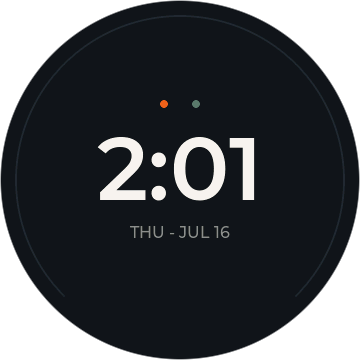
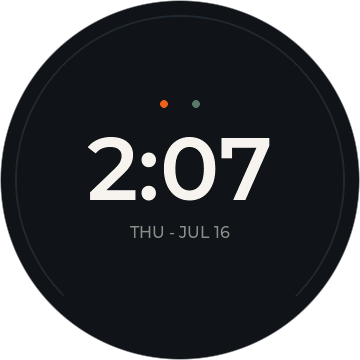
firmware(dial-idf): v1.0.2 — ships the confirm/error overlap fix and OTA hardening
Claude-Session: https://claude.ai/code/session_016SFFBnJwXC7XVfTnU6V9z8

Changed region(s): [[0.2444, 0.3667, 0.7639, 0.5806]]

diff --git a/simulator/stubs.c b/simulator/stubs.c
@@ -110,6 +110,6 @@ void dial_net_on_event(dial_net_event_cb_t cb) { (void)cb; }
 
 const esp_app_desc_t *esp_app_get_description(void)
 {
-    static const esp_app_desc_t desc = { .version = "1.0.1", .idf_ver = "v6.0" };
+    static const esp_app_desc_t desc = { .version = "1.0.2", .idf_ver = "v6.0" };
     return &desc;
 }